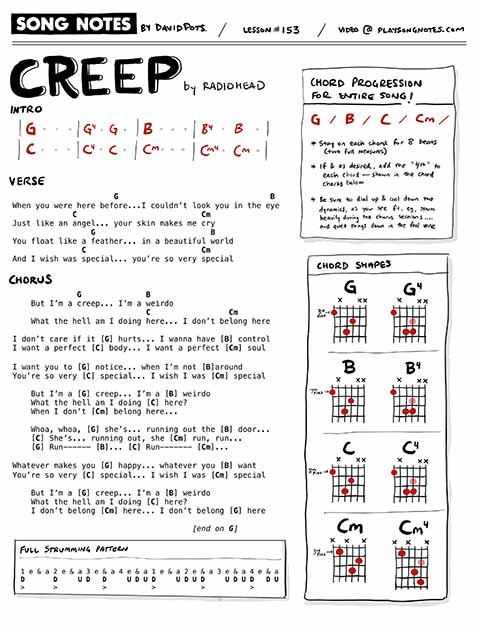
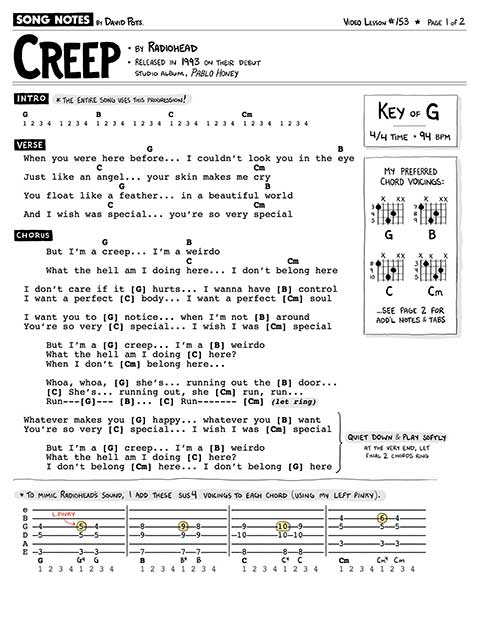
Adds 153 mn url

Changed region(s): [[0.0, 0.0, 0.9688, 0.9651]]

diff --git a/backlog.md b/backlog.md
@@ -18,6 +18,7 @@ permalink: /backlog/
 
 Here's the songs I've most recently re-listed for purchase at Musicnotes.com. Each arrangement is officially licensed & legal, and also uses my latest sheet music formatting.
 
+- May 2  - [Creep](https://playsongnotes.com/lessons/153/)
 - Apr 26 - [LA Freeway](https://playsongnotes.com/lessons/101/)
 - Apr 23 - [Maybe It's Time](https://playsongnotes.com/lessons/188/)
 - Apr 21 - [Guantanamera](https://playsongnotes.com/lessons/211/)
@@ -60,23 +61,23 @@ Here's the songs I've most recently re-listed for purchase at Musicnotes.com. Ea
 
 <h3>7+ requests:</h3>
 
-    Stairway to Heaven          XXXXXXXXXXXXXXXXXXXXXXXXXXXXXXXXXXXXXXX
+    Stairway to Heaven          XXXXXXXXXXXXXXXXXXXXXXXXXXXXXXXXXXXXXXXXX
 
     Always Remember Us This Way XXXXXXXXXXX
     American Girl               XXXXXXXXX
     California Dreaming         XXXXXXXXX
-    Creep                       XXXXXXXXXXX
     Game of Thrones (theme)     XXXXXXXXXX
-    Let Him Roll                XXXXXXXX
+    Let Him Roll                XXXXXXXXX
     My Fav. Picture of You      XXXXXXXX
     My Old Kentucky Home        XXXXXXXX
     Total Eclipse of the Heart  XXXXXXX
     We Are the Champions •      XXXXXXX
+    When the Man Comes Around   XXXXXXX
 
 <br />
 <h3>3-6 requests:</h3>
 
-    All Apologies               XXX
+    All Apologies               XXXX
     Let It Go                   XXX
     Light On •                  XXX
     Lookin' Out My Backdoor     XXXX
@@ -84,7 +85,6 @@ Here's the songs I've most recently re-listed for purchase at Musicnotes.com. Ea
     Running Down a Dream        XXXXXX
     Say It Ain't So             XXXX
     Surf Rider                  XXXXX
-    When the Man Comes Around   XXXXXX
     Where Rainbows Never Die    XXXX
     Year Clayton Delaney Died   XXX
 
@@ -103,6 +103,7 @@ Here's the songs I've most recently re-listed for purchase at Musicnotes.com. Ea
     Jenny of Oldstones          X
     Let It Go                   X
     Manhattan Island Serenade   X
+    Peace of Mind               X
     Rivers of Babylon           X
     Santeria                    X  
     Say Something               X

diff --git a/_lessons/153 [Radiohead] Creep.md b/_lessons/153 [Radiohead] Creep.md
@@ -12,10 +12,9 @@ slug: "153"
 redirect_from:
   - /songs/radiohead-creep/
 #pdf_version: v2
-pdf_version: copyright
+pdf_version: musicnotes
 pdf_numpages: 2
-patreon_lesson_available: true
-patreon_lesson_url: https://www.patreon.com/posts/pdf-creep-by-153-30194939
+musicnotes_url: https://www.musicnotes.com/l/zkkMX
 ---
 
 ## Video lesson

diff --git a/_lessons/195 -practicing-with-a-backing-track-tennessee-whiskey.md b/_lessons/195 -practicing-with-a-backing-track-tennessee-whiskey.md
@@ -5,7 +5,7 @@ slug: "195"
 date_published: 2018-12-01
 category: practice_log
 tags: [Practice Log, Backing Track, Key of A, Country, 2010s, Walking Bass Lines, Licks & Fills]
-hidden_tags: [Chris Stapleton]
+hidden_tags: [Chris Stapleton, Tennessee Whiskey, Tennessee Whisky]
 yt_video_id: zMI1W85oLRo
 pdf_version: v1
 pdf_numpages: 3

diff --git a/_lessons/191 spicing-up-a-2-chord-song-tennessee-whiskey.md b/_lessons/191 spicing-up-a-2-chord-song-tennessee-whiskey.md
@@ -5,6 +5,7 @@ slug: "191"
 date_published: 2018-11-14
 category: practice_log
 tags: [Practice Log, Learning Chords, Strumming, Key of A, Licks & Fills]
+hidden_tags: [Tennessee Whiskey, Tennessee Whisky]
 yt_video_id: psGJOvgZU-g
 pdf_version: v1
 pdf_numpages: 3
